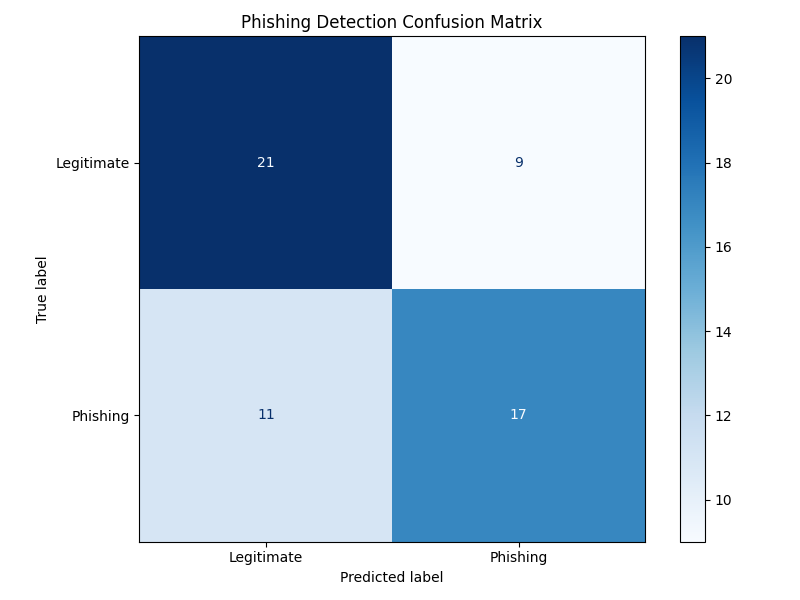
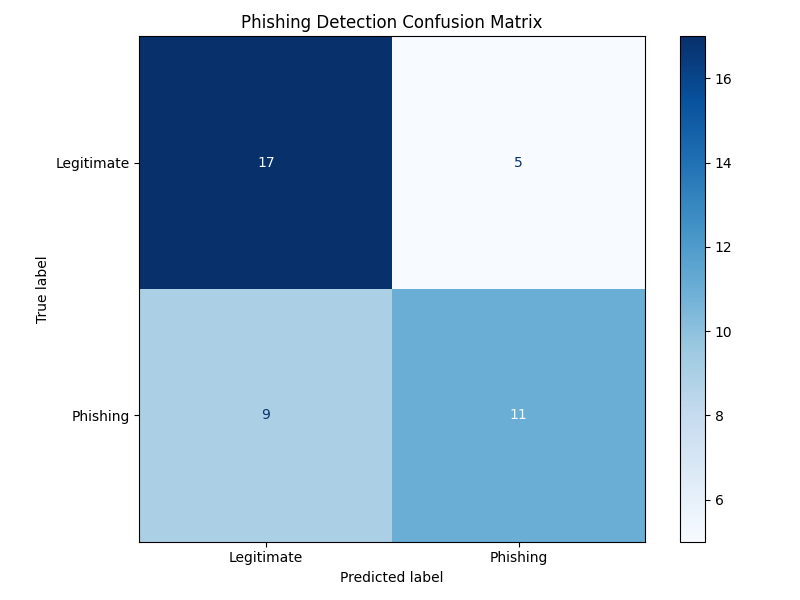
whatever

diff --git a/phishing-detector/phising-ml/test_inference.py b/phishing-detector/phising-ml/test_inference.py
@@ -111,6 +111,10 @@ def main():
     # CATEGORY 2: LEGITIMATE URLS WITH SUSPICIOUS CHARACTERISTICS
     # These are real legitimate URLs that might trigger false positives
     deceptive_legitimate_urls = [
+"https://www.mako.co.il/food-restaurants/restaurant-news/Article-d706a6c26f25391027.html",  # Legitimate but long URL
+"https://aws.amazon.com/data-exchange/?adx-cards2.sort-by=item.additionalFields.eventDate&adx-cards2.sort-order=desc",
+"https://github.com/LeandThaqi/NoPhish/blob/main/train_random_forest_less.py",
+
         # Legitimate sites with complex/suspicious looking URLs
         "https://login.live.com/login.srf?wa=wsignin1.0&rpsnv=13&ct=1618675326",  # Microsoft complex login URL
         "https://accounts.google.com/v3/signin/identifier?continue=https%3A%2F%2Fmail.google.com",  # Google complex login
@@ -142,45 +146,10 @@ def main():
         "https://login.mailchimp.com/oauth2/v1/authorize?response_type=code"  # OAuth flow
     ]
     
-    # CATEGORY 3: EXTREMELY CHALLENGING EDGE CASES
-    # These URLs are specifically designed to be very hard to classify correctly
-    edge_case_urls = [
-        # Legitimate but suspicious subdirectories using security terms
-        "https://github.com/security/advisories/report",  # 'security' in path but legitimate
-        "https://twitter.com/account/verify_credentials",  # 'verify' in path of legitimate site
-        "https://developer.paypal.com/api/auth-credentials/",  # Auth in legitimate developer portal
-        "https://help.netflix.com/legal/security-verification",  # Security term in help page
-        
-        # Phishing - domains that look very close to legitimate
-        "https://www.cloudflare-cdn.com/signin",  # Not the real Cloudflare domain
-        "https://checkout-paypal-secure.com/review",  # Multiple legitimate terms combined
-        "https://my-appleid.cloud.com/manage",  # Combining brand with legitimate term
-        "https://onedrive-sharepoint.com/files/document",  # Two Microsoft products combined
-        
-        # Legitimate with oauth tokens and many parameters (very complex)
-        "https://login.microsoftonline.com/common/oauth2/v2.0/authorize?client_id=4765445b-32c6-49b0-83e6-1d93765276ca&redirect_uri=https%3A%2F%2Fwww.office.com%2Flandingv2&response_type=code%20id_token&scope=openid%20profile%20https%3A%2F%2Fwww.office.com%2Fv2%2FOfficeHome.All",  # Microsoft OAuth
-        "https://accounts.google.com/o/oauth2/v2/auth/identifier?client_id=717762328687-iludtf96g1hinl76e4lc1b9a82g457nn.apps.googleusercontent.com&scope=profile%20email&redirect_uri=https%3A%2F%2Fstackauth.com%2Fauth%2Foauth2%2Fgoogle&state=%7B%22sid%22%3A1%2C%22st%22%3A%2259%3A3%3Abbc%2C16%3A9fbf5998a53a6de2%2C10%3A1647695052%2C16%3A66ba0b7fb39c10da%2C106e44857549041e621c02f3436a836b46e65219da2d0b76e36d7423025f9fbd%22%2C%22cid%22%3A%22717762328687-iludtf96g1hinl76e4lc1b9a82g457nn.apps.googleusercontent.com%22%2C%22k%22%3A%22Google%22%2C%22ses%22%3A%22c6c564513fa648049c388a518e6cf938%22%7D&response_type=code&service=lso&o2v=2&flowName=GeneralOAuthFlow",  # Google OAuth with many parameters
-        
-        # Phishing - multi-method attack (combining multiple techniques)
-        "https://signin.ebay-verify.secure-id.payment.update.com-tx.xyz/",  # Multiple subdomains with brands
-        "https://security.google.auth.com.verification-support.online/account",  # Many security terms + brand
-        
-        # Legitimate but very unusual URL structures
-        "https://for-the-badge.blink1073.repl.co/badges/releases/Netflix?repository=renovate",  # Custom service on replit
-        "https://us-central1-visualism-dev.cloudfunctions.net/api/auth/callback/github",  # Google Cloud Function URL
-        
-        # Phishing that mimics URL shorteners or redirects
-        "https://bit.ly.url-shortener-redirect.com/g00gl3",  # Fake URL shortener
-        "https://rb.gy.click-confirmation.online/amzn-delivery",  # Fake shortened URL
-        
-        # Extremely deceptive phishing using Unicode character tricks
-        "https://www.xn--pple-43d.com/signin",  # Punycode for apple with dots under 'a'
-        "https://xn--gogle-0nf.com/mail",  # Punycode for google with accent 
-    ]
-    
+
     # Combine into test sets
-    phishing_urls = sophisticated_phishing_urls + edge_case_urls[4:8] + edge_case_urls[12:14] + edge_case_urls[-2:]
-    legitimate_urls = deceptive_legitimate_urls + edge_case_urls[0:4] + edge_case_urls[8:12] + edge_case_urls[14:16]
+    phishing_urls = sophisticated_phishing_urls 
+    legitimate_urls = deceptive_legitimate_urls
     
     results = []
     true_labels = []
